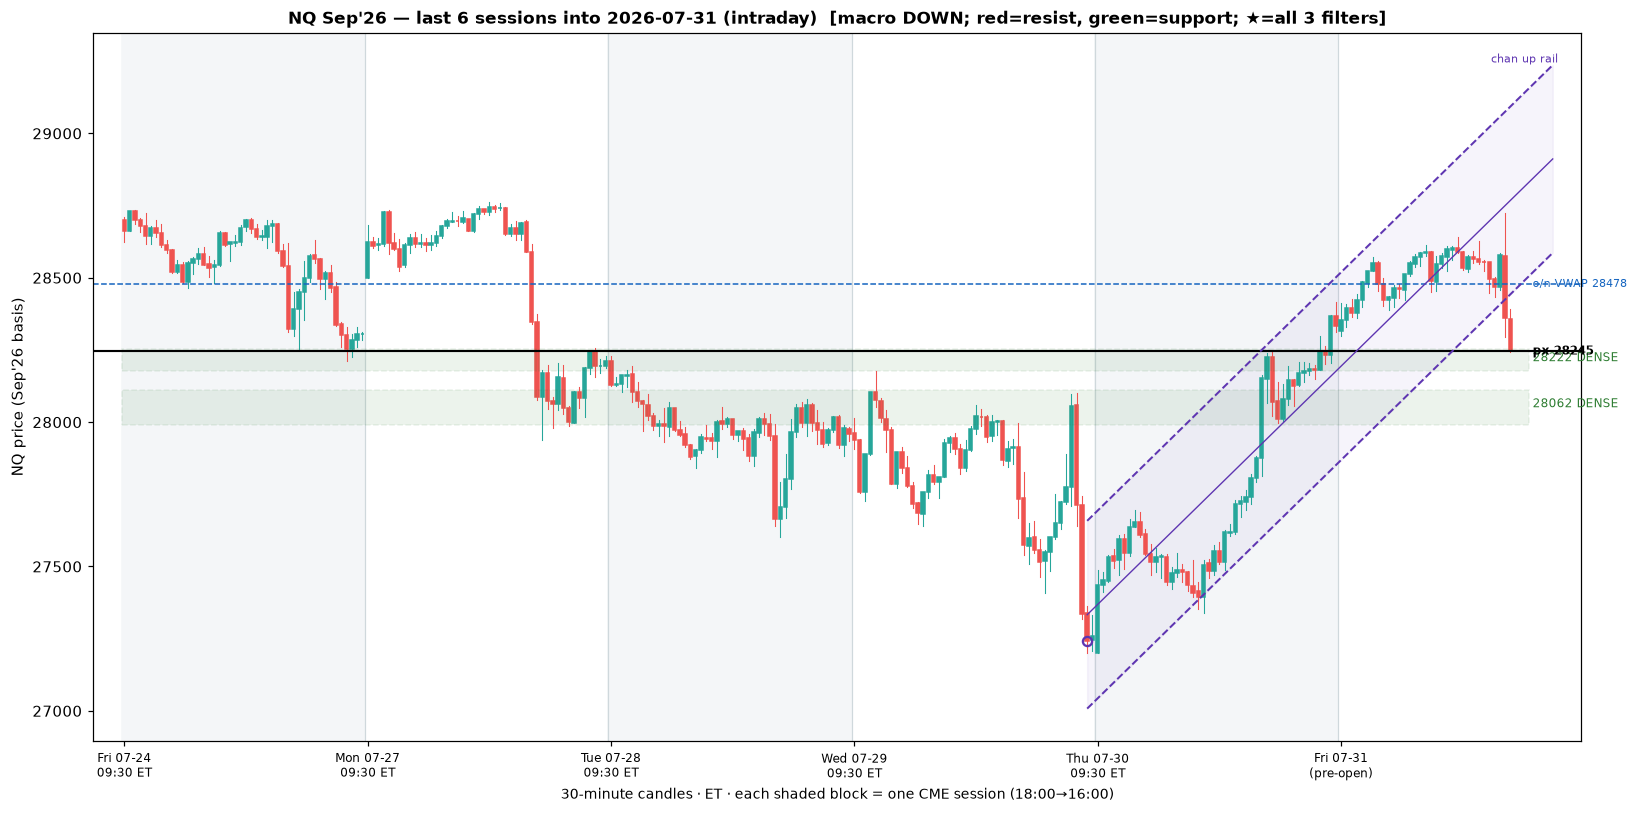
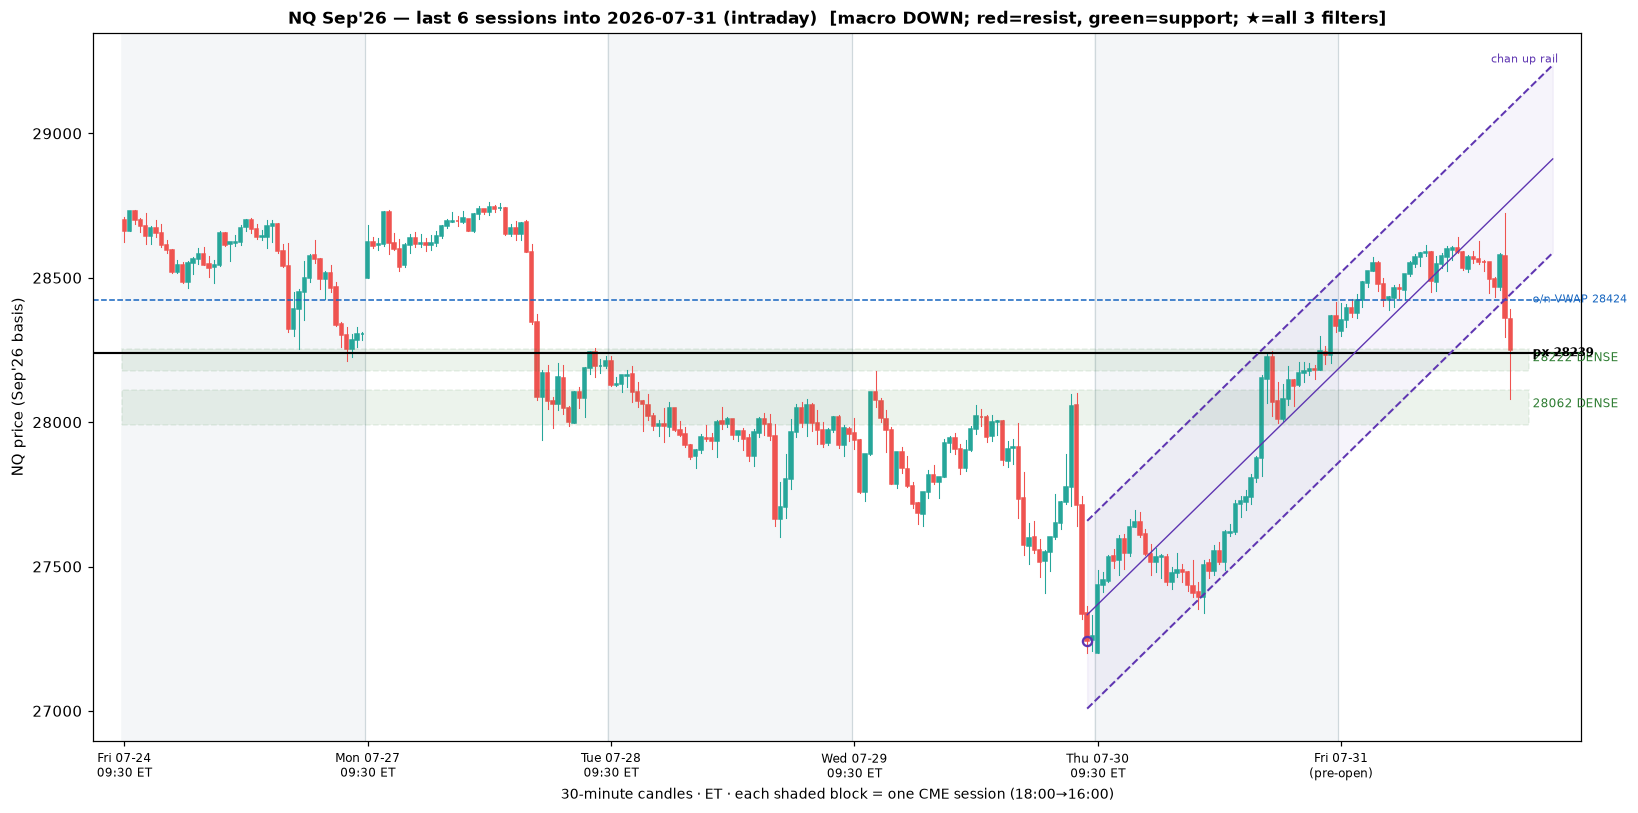
Rerun NQ 07-31 ~10:30 ET: broke 28178, tagged 28062 zone (low 28080), bounced to 28239
Day thesis played out fully: 28726 shelf rejected -> broke 28178 support ->
tagged the 28062 DENSE zone (low 28080) -> bounced to 28239. Up-channel decisively
broken. Price now retesting the broken 28178-28254 shelf from below, -1.58sigma.
No mechanical armed signal (gate keeps the zone as support/long = counter-trend);
the discretionary read is a short on rejection of the broken-support-turned-resistance.

Claude-Session: https://claude.ai/code/session_016aQdjV8pEkud2m7UoLztFR

Changed region(s): [[0.0623, 0.4305, 0.9652, 0.4613], [0.9341, 0.3383, 0.9963, 0.369]]

diff --git a/scripts/three_filter_read.py b/scripts/three_filter_read.py
@@ -33,7 +33,7 @@ import scripts.backtest_confluence as bt
 from scripts.sim_15day import macro_bias, WIN_F, BUF_F
 
 ET = "America/New_York"
-LIVE_PX = 28245.0
+LIVE_PX = 28239.25
 K_STRETCH = 0.5
 CHART_SESSIONS = 6
 
@@ -102,9 +102,9 @@ def main():
     sd = float(np.sqrt(((tp - vwap) ** 2 * v).cumsum().iloc[-1] / cv.iloc[-1]))
     stretch = (px - vwap) / sd if sd else 0.0
 
-    print(f"NQ three-filter read — {cur_date} RTH (~10:05 ET)   price {px:.0f}")
+    print(f"NQ three-filter read — {cur_date} RTH (~10:30 ET)   price {px:.0f}")
     print(f"  CONTRACT: front Sep'26 (exp 09-18)  |  back Dec'26  |  next roll ~Sep 10  |  basis: Sep, single")
-    print(f"  prior RTH close 28238   day range 28245-28726   flat (+0.03%)  [tagged 28726 shelf -> rejected -481 to 28222 support]")
+    print(f"  prior RTH close 28238   day range 28080-28726   flat (+0.01%)  [28726 rejected -> broke 28178 -> tagged 28062 zone (low 28080) -> bounced]")
     print(f"  macro series: {len(daily)} Sep-basis daily closes {daily.index[0]}..{daily.index[-1]}\n")
     print(f"FILTER 2 DIRECTION : macro bias {bias_txt}  (10d SMA {s10:.0f} vs 20d SMA {s20:.0f}) "
           f"-> {'SHORT resistance only' if bias<0 else ('LONG support only' if bias>0 else 'stand aside')}\n")
